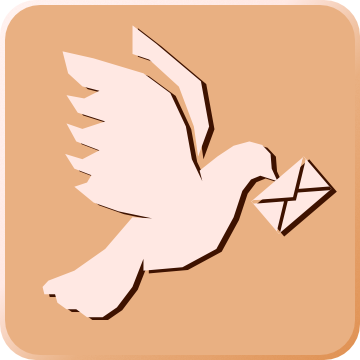
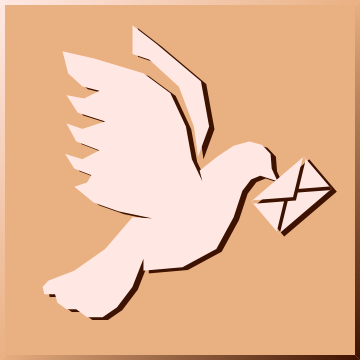
Success encoding in images without transparency, uploading new non-transparent image

Changed region(s): [[0.0, 0.0, 1.0, 1.0], [0.0, 0.0, 0.0917, 0.0917]]

diff --git a/scripts/dove_encoding.js b/scripts/dove_encoding.js
@@ -98,7 +98,7 @@ const retrieveDataThroughSteganography = async (imageSrc = sharingImage.src) => 
                     }
                 }
             }
-            const readDataBuffer = Uint8Array.from(readData);
+            const readDataBuffer = Uint8Array.from(readData.slice(4));
             const decoder = new TextDecoder();
             console.log(readDataBuffer);
             console.log(decoder.decode(readDataBuffer));
@@ -151,7 +151,7 @@ const encodeUsingMetadata = async () => {
 };
 
 const encodeUsingSteganography = async () => {
-    fetch("https://jinan-dangor.github.io/Dovecote-Character-Sheet-Builder/assets/dove%20icon%20no%20transparency.png").then(async (response) => {
+    fetch("https://jinan-dangor.github.io/Dovecote-Character-Sheet-Builder/assets/dove%20icon.png").then(async (response) => {
         const newCanvas = document.createElement("canvas");
         newCanvas.width = 360;
         newCanvas.height = 360;
@@ -197,16 +197,12 @@ const encodeUsingSteganography = async () => {
 
             let writingOffset = 0;
             for (let i = 0; i < data.length; i++) {
-                if (i % 4 == 3) {
-                    continue;
-                }
-                if (/*writingOffset < (arrayToInsert.length + chunkHeaderLength.length) * 2*/ true) {
-                    //console.log(`Initially: ${imageData.data[y * 360 * 4 + x * 4 + i]}`);
-                    //data[y * 360 * 4 + x * 4 + i] -= data[y * 360 * 4 + x * 4 + i] % 2 ** 4;
-                    //data[y * 360 * 4 + x * 4 + i] += halfBytes[writingOffset];
-                    data[i] = data[i] / 2;
-                    //console.log(`Result: ${data[y * 360 * 4 + x * 4 + i] % 2 ** 4}`);
-                    //console.log(`Result: ${data[y * 360 * 4 + x * 4 + i] % 2 ** 4} == ${halfBytes[writingOffset]}`);
+                if (writingOffset < (arrayToInsert.length + chunkHeaderLength.length) * 2) {
+                    //console.log(`Initially: ${imageData.data[i]}`);
+                    data[i] -= data[i] % 2 ** 4;
+                    data[i] += halfBytes[writingOffset];
+                    //console.log(`Result: ${data[i] % 2 ** 4}`);
+                    //console.log(`Result: ${data[i] % 2 ** 4} == ${halfBytes[writingOffset]}`);
                     writingOffset++;
                 }
             }
@@ -219,13 +215,13 @@ const encodeUsingSteganography = async () => {
             writingOffset = 0;
             for (let i = 0; i < data.length; i++) {
                 if (writingOffset < (arrayToInsert.length + chunkHeaderLength.length) * 2) {
-                    console.log(testData[i]);
+                    console.log(testData[i] % 2 ** 4);
                     writingOffset++;
                 }
             }
 
             sharingImage.src = newCanvas.toDataURL("image/png");
-            //retrieveDataThroughSteganography();
+            retrieveDataThroughSteganography();
         });
     });
 };
